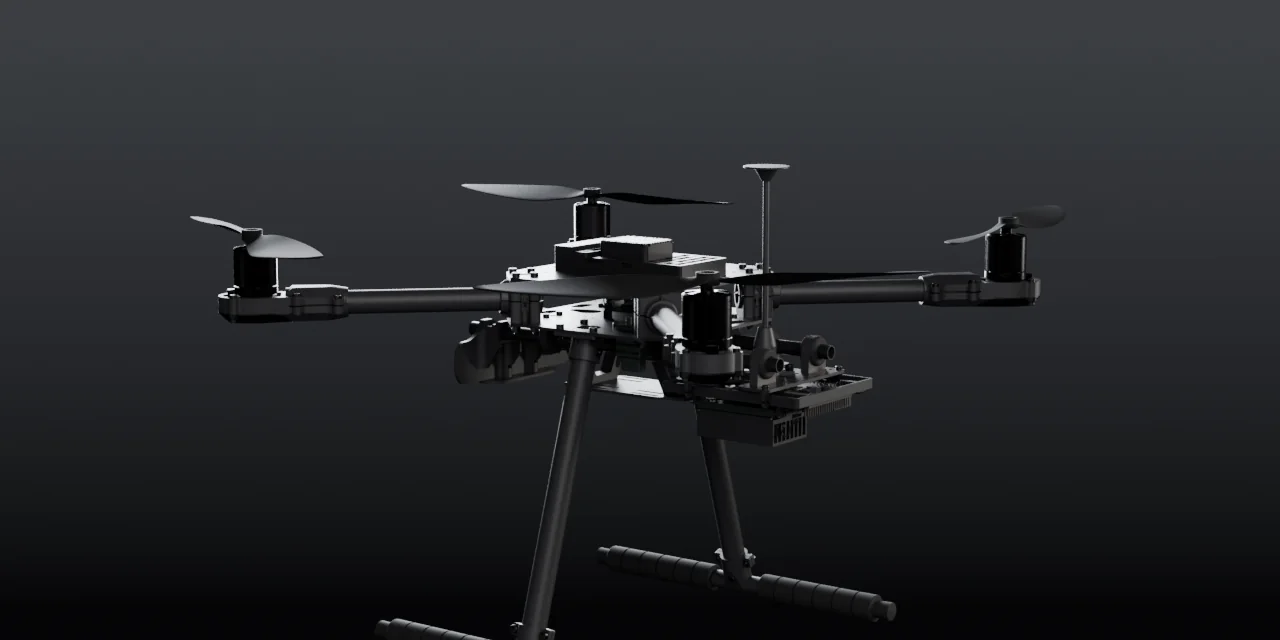
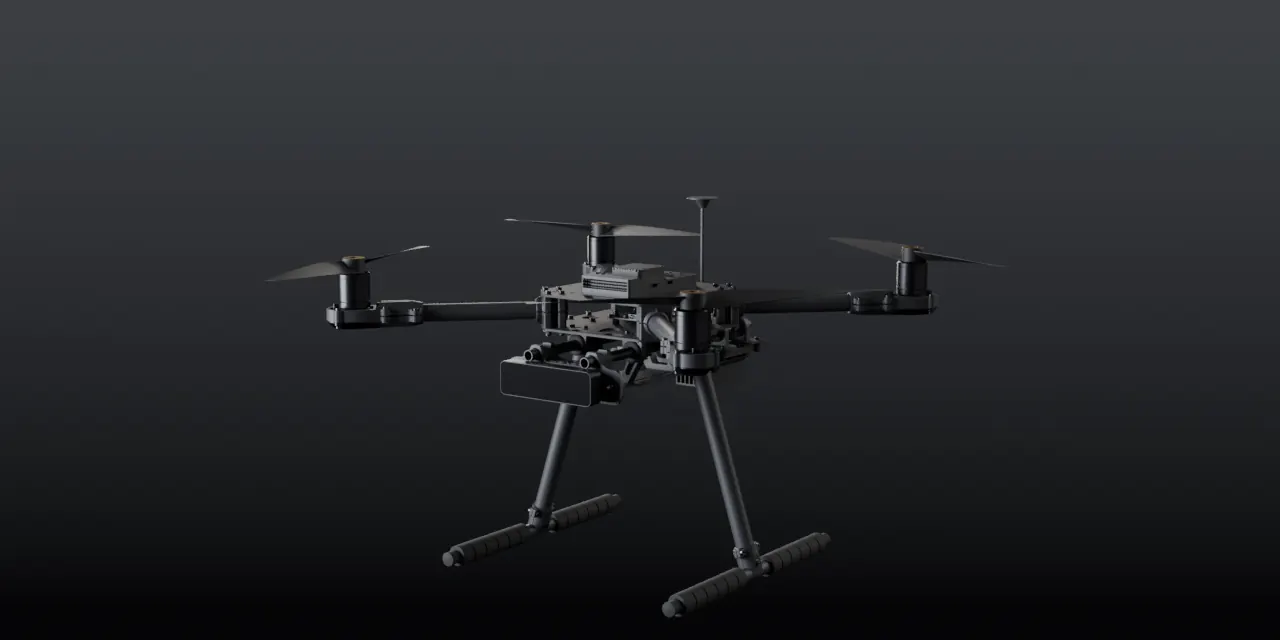
Split the site into a product page and a how-it-works page
One scroll had to carry the hero, the stats, the system diagram, the self-test,
the takeoff, three mission diagrams and the phase chart. It was too much for one
page, so it is two: index.html shows the aircraft, how-it-works.html explains it.

The product page gains a hardware gallery. Seven Cycles renders from the
manufacturers' own CAD, each captioned in real HTML rather than text burned into
the image, so a screen reader reads them and they rescale on a phone. The motor
tile says plainly that Holybro's CAD and the kit listing disagree on the KV
rating, because they do and it is not resolved.

how-it-works.html finally uses avoid-light.svg. tools/gen_avoid.py has been
generating it all along and nothing referenced it.

The committed renders showed the old downloaded propellers, no camera, and the
tail. All of them are reshot from the nose with the current aircraft. avionics
and motor are superseded by the close-ups and are gone.

Both pages carry the whole stylesheet inline and identical. An external one is
render-blocking and performance is a blocking assertion, so the duplication is
deliberate — and a new CI step asserts the two <style> blocks are byte-identical
so they cannot quietly drift apart.

index.html was hardcoded in six places in the audit: two triggers, html-validate,
the axe page load, the diagram-text check and the Lighthouse config. All six now
name both pages. A page missing from any one of them would have shipped
[…]

diff --git a/how-it-works.html b/how-it-works.html
@@ -3,8 +3,8 @@
 <head>
 <meta charset="utf-8">
 <meta name="viewport" content="width=device-width, initial-scale=1">
-<title>Venator: Autonomous Flight Systems</title>
-<meta name="description" content="Secure, long-range, off-grid autonomous flight drone platforms powered by edge compute. A laptop, a 915 MHz LoRa radio and an autonomous quadcopter, with no internet and no ground control software.">
+<title>How Venator works: LoRa command link and onboard autonomy</title>
+<meta name="description" content="How the Venator quadcopter works: a 915 MHz LoRa command link from a laptop, a Jetson Orin Nano relaying MAVLink to a Pixhawk 6X, and three bench-tested mission behaviours. No internet, no ground control software.">
 <link rel="icon" href="assets/brand/favicon.svg">
 <style>
   /* Tokens are docs/BRAND.md's palette, unchanged. Signal reports live state
@@ -287,147 +287,122 @@
          near-white, for dark backgrounds. -->
     <a href="index.html"><img src="assets/brand/lockup-dark.svg" alt="Venator, autonomous flight systems" width="168" height="30"></a>
     <nav aria-label="Primary">
-      <a href="how-it-works.html">How it works</a>
+      <a href="how-it-works.html" aria-current="page">How it works</a>
       <a href="how-it-works.html#status">Status</a>
       <a href="https://github.com/sarreola07/VENATOR">GitHub</a>
     </nav>
   </header>
 
-  <div class="hero">
-    <h1>Fly it with no network at all.</h1>
-    <div>
-      <p>A laptop, a 915&nbsp;MHz radio and an autonomous quadcopter. No internet,
-        no cellular, no ground control software.</p>
-      <p class="act">
-        <a class="key" href="how-it-works.html">How it works</a>
-        <a href="https://github.com/sarreola07/VENATOR">View the source</a>
-      </p>
-    </div>
-  </div>
-
   </div><!-- /wrap -->
-
-  <figure class="shot">
-    <img src="assets/x500-hero.webp" width="2000" height="840"
-         alt="The Venator aircraft: a Holybro X500 V2 quadcopter, four carbon arms carrying 2216 motors and ten inch propellers, twin landing skids, and the GPS mast and power module on the body plate">
-  </figure>
 </div><!-- /band -->
 
 <div class="wrap">
 
-  <div class="nums">
-    <div>
-      <b>915<i>MHz</i></b>
-      <span>LoRa command link</span>
-      <em>Validated on hardware</em>
-    </div>
-    <div>
-      <b>0</b>
-      <span>Networks required</span>
-      <em>No internet, cell or GCS</em>
-    </div>
-    <div>
-      <b>18<i>min</i></b>
-      <span>Hover endurance</span>
-      <em>Holybro figure, stock airframe</em>
-    </div>
-    <div>
-      <b>1.5<i>kg</i></b>
-      <span>Payload capacity</span>
-      <em>Holybro figure, stock airframe</em>
-    </div>
-  </div>
+  <section id="how" class="stack">
+    <p class="lab">How it works</p>
+    <h2>Three boxes and two links</h2>
+    <p class="cap">A command leaves the laptop over 915&nbsp;MHz LoRa. The Jetson
+      relays it to the flight controller over MAVLink and sends the reply back the
+      same way. Nothing in the path touches a network.</p>
+    <figure>
+      <picture>
+        <source media="(prefers-color-scheme: dark)" srcset="assets/brand/system-dark.svg">
+        <img src="assets/brand/system-light.svg" alt="Three boxes: a laptop ground station, the Jetson on the drone, and the airframe. The laptop talks to the Jetson over 915 MHz LoRa, and the Jetson talks to the flight controller over MAVLink">
+      </picture>
+    </figure>
 
-  <p class="note">
-    The two endurance and payload figures are Holybro's for the stock X500&nbsp;V2,
-    not measurements of this build, which carries a Jetson Orin Nano and an OAK-D&nbsp;Pro.
-    Everything shown below is built and bench-tested unless a caption says
-    otherwise. Outdoor flight is pending.
-  </p>
-
-  <section class="flight">
-    <p class="lab">Arming</p>
-    <h2>Two commands, then it leaves the ground</h2>
-    <p class="cap">Arming is deliberately two steps. The ground station asks, the
-      Jetson acknowledges, and nothing spins until a second confirm arrives over
-      the same 915&nbsp;MHz link. Built and bench-tested against a mock flight
-      controller; the aircraft has not yet flown outdoors.</p>
-
-    <div class="takeoff">
-      <div class="craft">
-        <img src="assets/takeoff-rest.webp" width="1200" height="1000" loading="lazy"
-             alt="The Venator aircraft on its landing skids with the propellers stopped, seen from the front quarter with the OAK-D Pro camera on the nose bracket">
-        <img class="spin" src="assets/takeoff-spin.webp" width="1200" height="1000" loading="lazy" alt="">
+    <div class="series">
+      <div class="item">
+        <div class="hd">
+          <h3>What is actually fitted</h3>
+          <p>Every line is a real part of the repository. The one that is not an OK is the one that has not happened yet.</p>
+        </div>
+        <figure class="selftest">
+          <picture>
+            <source media="(prefers-color-scheme: dark)" srcset="assets/brand/hero-dark.svg">
+            <img src="assets/brand/hero-light.svg" alt="System self-test: radio, link, flight controller, camera, compute, C2 and GPS all OK; the aircraft has not yet flown outdoors; then ready, and the aircraft lifts">
+          </picture>
+        </figure>
       </div>
-      <p class="gcs">&gt; FLY_REQ<br>
-        <b>&lt; ACK</b><br>
-        &gt; CONFIRM<br>
-        <b>&lt; STATUS</b> <span class="led"></span>armed</p>
     </div>
   </section>
-  <section class="gallery">
-    <p class="lab">Hardware</p>
-    <h2>What is bolted to it</h2>
-    <p class="cap">Cycles renders built from the manufacturers' own CAD, not
-      photographs. Every part below is in the model because it is on the
-      aircraft.</p>
 
-    <div class="grid">
-      <div class="tile">
+  <section>
+    <h2>What it is built to do</h2>
+    <p class="cap">Three behaviours, written and bench-tested against a mock flight
+      controller. All of them hold the same rule: if the radio link drops for more than
+      four seconds, the aircraft returns to launch without being told.</p>
+
+    <div class="series">
+      <div class="item">
+        <div class="hd">
+          <h3>Follow a person</h3>
+          <p>Holds 3&nbsp;m behind until a STOP arrives. Losing the camera makes it hover, not guess.</p>
+        </div>
         <figure>
-          <img src="assets/renders/cu-pixhawk.webp" width="1400" height="1000" loading="lazy" alt="The Pixhawk 6X flight controller mounted flat on the carbon top plate, its connector bank facing the tail">
+          <picture>
+            <source media="(prefers-color-scheme: dark)" srcset="assets/brand/conops-dark.svg">
+            <img src="assets/brand/conops-light.svg" alt="A laptop commands the drone over 915 MHz LoRa; it takes off, follows a person at 3 m, and returns home when the link drops">
+          </picture>
         </figure>
-        <h3>Pixhawk 6X</h3>
-        <p>Flight controller, FMUv6X, on the top plate.</p>
       </div>
 
-      <div class="tile">
+      <div class="item">
+        <div class="hd">
+          <h3>Patrol a route</h3>
+          <p>Coordinates go up one packet at a time, each acknowledged, and a second confirmation is required before anything spins.</p>
+        </div>
         <figure>
-          <img src="assets/renders/cu-jetson.webp" width="1400" height="1000" loading="lazy" alt="The Jetson Orin Nano developer kit mounted beneath the payload shelf, heatsink fins and connector bank visible">
+          <picture>
+            <source media="(prefers-color-scheme: dark)" srcset="assets/brand/patrol-dark.svg">
+            <img src="assets/brand/patrol-light.svg" alt="Four coordinates uploaded over LoRa, validated, armed, flown as a circuit with a deviation around an obstacle, then RTL home">
+          </picture>
         </figure>
-        <h3>NVIDIA Jetson Orin Nano</h3>
-        <p>The companion computer, under the payload shelf. It runs the command server and talks MAVLink to the 6X.</p>
       </div>
 
-      <div class="tile">
+      <div class="item">
+        <div class="hd">
+          <h3>Reach every station at once</h3>
+          <p>LoRa is a broadcast medium, so one transmission arrives everywhere at the same instant.</p>
+        </div>
         <figure>
-          <img src="assets/renders/cu-oakd.webp" width="1400" height="1000" loading="lazy" alt="The OAK-D Pro camera bolted to the forward bracket, its dark glass front panel facing the nose">
+          <picture>
+            <source media="(prefers-color-scheme: dark)" srcset="assets/brand/mesh-dark.svg">
+            <img src="assets/brand/mesh-light.svg" alt="One LoRa transmission reaching the ground station and the aircraft at the same instant, with phones loading a page from the machine holding the radio">
+          </picture>
         </figure>
-        <h3>OAK-D Pro</h3>
-        <p>Stereo depth camera on the nose bracket, with an IR dot projector and flood illumination.</p>
       </div>
+    </div>
+  </section>
 
-      <div class="tile">
+    <div class="series">
+      <div class="item">
+        <div class="hd">
+          <h3>Deviate around what it sees</h3>
+          <p>Phase&nbsp;6, and the one behaviour that is not started. The OAK-D&nbsp;Pro's forward depth finds a wall; the aircraft brakes, steps around it, and rejoins the line.</p>
+        </div>
         <figure>
-          <img src="assets/renders/cu-gps.webp" width="1400" height="1000" loading="lazy" alt="The Holybro M10 GPS on its mast above the tail, raised clear of the airframe">
+          <picture>
+            <source media="(prefers-color-scheme: dark)" srcset="assets/brand/avoid-dark.svg">
+            <img src="assets/brand/avoid-light.svg" alt="Forward depth from the camera finds an obstacle ahead; the aircraft brakes, deviates around it and returns to the original track">
+          </picture>
         </figure>
-        <h3>Holybro M10</h3>
-        <p>GPS on the mast at the tail. Fitted, and getting a fix.</p>
       </div>
+    </div>
+  </section>
 
-      <div class="tile">
-        <figure>
-          <img src="assets/renders/cu-motor.webp" width="1400" height="1000" loading="lazy" alt="A 2216 brushless motor at the end of a carbon arm, carrying one ten inch propeller by its hub">
-        </figure>
-        <h3>2216 motor and propeller</h3>
-        <p>One of four. Holybro's CAD names it DJ-2216-KV880; the kit listing says KV920. Unresolved, so neither number is claimed here.</p>
-      </div>
-
-      <div class="tile">
-        <figure>
-          <img src="assets/renders/cu-power.webp" width="1400" height="1000" loading="lazy" alt="The Holybro PM06 power module mounted on the bottom plate with its XT60 lead">
-        </figure>
-        <h3>Holybro PM06</h3>
-        <p>Power module on the bottom plate, feeding the 6X and the motor ESCs.</p>
-      </div>
-
-      <div class="tile">
-        <figure>
-          <img src="assets/renders/cu-arm.webp" width="1400" height="1000" loading="lazy" alt="A carbon fibre arm tube held in its moulded clamp, with the Holybro name embossed on the clamp body">
-        </figure>
-        <h3>Carbon arm and clamp</h3>
-        <p>One of four, on a 500 mm wheelbase. The Holybro name is embossed in their own CAD, so it shows in close-up.</p>
-      </div>
+  <section id="status">
+    <div class="status">
+      <h2>Where it actually is</h2>
+      <p class="cap">Four phases done, two in progress, one not started. The command
+        link works end to end on real radios and the aircraft is built. Flying it
+        outdoors is what is left.</p>
+      <figure>
+        <picture>
+          <source media="(prefers-color-scheme: dark)" srcset="assets/brand/phases-dark.svg">
+          <img src="assets/brand/phases-light.svg" alt="Phase status: 0, 1, 3 and 4 done; 2 and 5 in progress; 6 not started">
+        </picture>
+      </figure>
     </div>
   </section>
 
